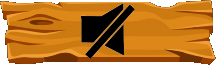
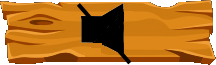
redesign enter's ans pause's menu

diff --git a/src/MyFrame.java b/src/MyFrame.java
@@ -37,6 +37,7 @@ public class MyFrame extends JFrame implements KeyEventDispatcher, MouseListener
 
     Buttom pauseButtom;
     Buttom startButtom;
+    Buttom settingButtom;
     Buttom exitButtom;
 
     public MyFrame() throws IOException {
@@ -44,7 +45,7 @@ public class MyFrame extends JFrame implements KeyEventDispatcher, MouseListener
         this.imageBloodBackground = ImageIO.read(new File("data\\blood_background.png"));
         imageBackGround = ImageIO.read(new File("data\\Sky.jpg"));
         imageBackGround1 = ImageIO.read(new File("data\\Sand1.jpg"));
-        imageEnterBackGround = ImageIO.read(new File("data\\ImageBackGround2.jpg"));
+        imageEnterBackGround = ImageIO.read(new File("data\\EnterBackGround1.jpg"));
         imageCheckMark = ImageIO.read(new File("data\\CheckMark.png"));
 
         addMouseListener(this);
@@ -85,10 +86,10 @@ public class MyFrame extends JFrame implements KeyEventDispatcher, MouseListener
         Constants.CNT_DIED_BOTS = new MyString(0);
         Constants.CNT_WAY = new MyString(0);
 
-        buttoms.add(new Buttom(getWidth() / 28.0, getWidth() / 2, getHeight() / 2, "data\\ButtomStart.png"));
-        buttoms.add(new Buttom(getWidth() / 28.0, getWidth() / 2, getHeight() / 2 + getWidth() / 28.0 * 5 / 4, "data\\ButtomRecords.png"));
-        buttoms.add(new Buttom(getWidth() / 28.0, getWidth() / 2, getHeight() / 2 + getWidth() / 28.0 * 2.0 * 5 / 4, "data\\ButtomSetting.png"));
-        buttoms.add(new Buttom(getWidth() / 28.0, getWidth() / 2, getHeight() / 2 + getWidth() / 28.0 * 3.0 * 5 / 4, "data\\ButtomInfo.png"));
+        buttoms.add(new Buttom(getWidth() / 28.0, getWidth() / 2 + Constants.R / 2, getHeight() / 2, "data\\ButtomStart.png"));
+        buttoms.add(new Buttom(getWidth() / 28.0, getWidth() / 2 + Constants.R / 2, getHeight() / 2 + getWidth() / 28.0 * 5 / 4, "data\\ButtomRecords.png"));
+        buttoms.add(new Buttom(getWidth() / 28.0, getWidth() / 2 + Constants.R / 2, getHeight() / 2 + getWidth() / 28.0 * 2.0 * 5 / 4, "data\\ButtomSetting.png"));
+        buttoms.add(new Buttom(getWidth() / 28.0, getWidth() / 2 + Constants.R / 2, getHeight() / 2 + getWidth() / 28.0 * 3.0 * 5 / 4, "data\\ButtomInfo.png"));
 
         {
             FileReader reader = new FileReader("files\\Constants.txt");
@@ -100,13 +101,14 @@ public class MyFrame extends JFrame implements KeyEventDispatcher, MouseListener
         Constants.TIME_LAST_BUM = 0;
 
         pauseButtom = new Buttom(getWidth() / 40, getWidth() / 2 + (int) (2.25 * (double) Constants.R), Constants.SDVIG / 2, "data\\pause.png");
-        startButtom = new Buttom(getWidth() / 4, getWidth() / 2, getHeight() / 4, "data\\start.png");
-        exitButtom = new Buttom(getWidth() / 16, getWidth() / 2 + getWidth()/32, 6*getHeight() / 8, "data\\ButtumExit.png", false);
+        startButtom = new Buttom(getWidth() / 28.0, getWidth() / 2 + Constants.R / 2, getHeight() / 2, "data\\ButtomContinue.png");
+        settingButtom = new Buttom(getWidth() / 28.0, getWidth() / 2 + Constants.R / 2, getHeight() / 2 + getWidth() / 28.0 * 5 / 4, "data\\ButtomSetting.png");
+        exitButtom = new Buttom(getWidth() / 16, getWidth() / 2 + getWidth() / 32, 6 * getHeight() / 8, "data\\ButtumExit.png", false);
     }
 
     @Override
     public void paint(Graphics g) {
-        System.out.println(buttoms.size());
+//        System.out.println(buttoms.size());
         long nowTime = System.currentTimeMillis();
         //System.out.println(nowTime + " " + (nowTime - timePriviosPrint) + " " + Constants.V_NORMAL);
         BufferStrategy bufferStrategy = getBufferStrategy();
@@ -287,7 +289,15 @@ public class MyFrame extends JFrame implements KeyEventDispatcher, MouseListener
                     }
                     pauseButtom.paint(g, getMousePosition());
                 } else {
-                    startButtom.paint(g, getMousePosition());
+                    g.drawImage(imageEnterBackGround, 0, 0, getWidth(), getHeight(), null);
+                    if (!Constants.IN_SETTING) {
+                        startButtom.paint(g, getMousePosition());
+                        settingButtom.paint(g, getMousePosition());
+                    } else {
+                        for (Buttom buttom : buttoms) {
+                            buttom.paint(g, getMousePosition());
+                        }
+                    }
                 }
             }
             timePriviosPrint = nowTime;
@@ -408,18 +418,122 @@ public class MyFrame extends JFrame implements KeyEventDispatcher, MouseListener
         double y = e.getY();
         if (Constants.START_GAME) {
             if (Constants.USER_DIED) {
-                if (ModifiersEx == 1024 && exitButtom.isIt && exitButtom.isPush(getMousePosition())){
+                if (ModifiersEx == 1024 && exitButtom.isIt && exitButtom.isPush(getMousePosition())) {
                     Constants.RESTART_GAME = true;
                 }
             } else {
                 if (Constants.PAUSE_MENU) {
-                    if (ModifiersEx == 1024 && startButtom.isPush(getMousePosition())) {
-                        Constants.PAUSE_MENU = false;
-                        long deltaTime = System.currentTimeMillis() - Constants.TIME_STOP;
-                        Constants.TIME_START_PROGRAM += deltaTime;
-                        Constants.TIME_LAST_BUM += deltaTime;
-                        for (BaseBot diedBot : labirint.diedBots) {
-                            diedBot.timeDied += deltaTime;
+                    if (!Constants.IN_SETTING) {
+                        if (ModifiersEx == 1024 && startButtom.isPush(getMousePosition())) {
+                            Constants.PAUSE_MENU = false;
+                            long deltaTime = System.currentTimeMillis() - Constants.TIME_STOP;
+                            Constants.TIME_START_PROGRAM += deltaTime;
+                            Constants.TIME_LAST_BUM += deltaTime;
+                            for (BaseBot diedBot : labirint.diedBots) {
+                                diedBot.timeDied += deltaTime;
+                            }
+                        }
+                        if (ModifiersEx == 1024 && settingButtom.isPush(getMousePosition())) {
+                            Constants.IN_SETTING = true;
+                            buttoms = new ArrayList<>();
+                            if (Constants.MUST_PLAY_MUSIC) {
+                                try {
+                                    buttoms.add(new Buttom(getWidth() / 28.0, getWidth() / 2 + Constants.R / 2, getHeight() / 2, "data\\ButtomMusicOn.png"));
+                                } catch (IOException ex) {
+                                    throw new RuntimeException(ex);
+                                }
+                            } else {
+                                try {
+                                    buttoms.add(new Buttom(getWidth() / 28.0, getWidth() / 2 + Constants.R / 2, getHeight() / 2, "data\\ButtomMusicOff.png"));
+                                } catch (IOException ex) {
+                                    throw new RuntimeException(ex);
+                                }
+                            }
+                            if (Constants.MUST_PLAY_SOUND) {
+                                try {
+                                    buttoms.add(new Buttom(getWidth() / 28.0, getWidth() / 2 + Constants.R / 2, getHeight() / 2 + getWidth() / 28.0 * 5 / 4, "data\\ButtomSoundOn.png"));
+                                } catch (IOException ex) {
+                                    throw new RuntimeException(ex);
+                                }
+                            } else {
+                                try {
+                                    buttoms.add(new Buttom(getWidth() / 28.0, getWidth() / 2 + Constants.R / 2, getHeight() / 2 + getWidth() / 28.0 * 5 / 4, "data\\ButtomSoundOff.png"));
+                                } catch (IOException ex) {
+                                    throw new RuntimeException(ex);
+                                }
+                            }
+
+                            try {
+                                buttoms.add(new Buttom(getWidth() / 28.0, getWidth() / 2 + Constants.R / 2, getHeight() / 2 + getWidth() / 28.0 * 2.0 * 5 / 4, "data\\ButtomBack.png"));
+                            } catch (IOException ex) {
+                                throw new RuntimeException(ex);
+                            }
+                        }
+                    } else {
+                        if (ModifiersEx == 1024 && buttoms.get(2).isPush(getMousePosition())) {
+                            Constants.IN_SETTING = false;
+                            buttoms = new ArrayList<>();
+                            try {
+                                buttoms.add(new Buttom(getWidth() / 28.0, getWidth() / 2 + Constants.R / 2, getHeight() / 2, "data\\ButtomStart.png"));
+                            } catch (IOException ex) {
+                                throw new RuntimeException(ex);
+                            }
+                            try {
+                                buttoms.add(new Buttom(getWidth() / 28.0, getWidth() / 2 + Constants.R / 2, getHeight() / 2 + getWidth() / 28.0 * 5 / 4, "data\\ButtomRecords.png"));
+                            } catch (IOException ex) {
+                                throw new RuntimeException(ex);
+                            }
+                            try {
+                                buttoms.add(new Buttom(getWidth() / 28.0, getWidth() / 2 + Constants.R / 2, getHeight() / 2 + getWidth() / 28.0 * 2.0 * 5 / 4, "data\\ButtomSetting.png"));
+                            } catch (IOException ex) {
+                                throw new RuntimeException(ex);
+                            }
+                            try {
+                                buttoms.add(new Buttom(getWidth() / 28.0, getWidth() / 2 + Constants.R / 2, getHeight() / 2 + getWidth() / 28.0 * 3.0 * 5 / 4, "data\\ButtomInfo.png"));
+                            } catch (IOException ex) {
+                                throw new RuntimeException(ex);
+                            }
+
+                        } else if (ModifiersEx == 1024 && buttoms.get(0).isPush(getMousePosition())) {
+                            Constants.MUST_PLAY_MUSIC = !Constants.MUST_PLAY_MUSIC;
+                            try {
+                                Constants.writeConstants();
+                            } catch (IOException ex) {
+                                throw new RuntimeException(ex);
+                            }
+                            if (Constants.MUST_PLAY_MUSIC) {
+                                try {
+                                    buttoms.get(0).setImage("data\\ButtomMusicOn.png");
+                                } catch (IOException ex) {
+                                    throw new RuntimeException(ex);
+                                }
+                            } else {
+                                try {
+                                    buttoms.get(0).setImage("data\\ButtomMusicOff.png");
+                                } catch (IOException ex) {
+                                    throw new RuntimeException(ex);
+                                }
+                            }
+                        } else if (ModifiersEx == 1024 && buttoms.get(1).isPush(getMousePosition())) {
+                            Constants.MUST_PLAY_SOUND = !Constants.MUST_PLAY_SOUND;
+                            try {
+                                Constants.writeConstants();
+                            } catch (IOException ex) {
+                                throw new RuntimeException(ex);
+                            }
+                            if (Constants.MUST_PLAY_SOUND) {
+                                try {
+                                    buttoms.get(1).setImage("data\\ButtomSoundOn.png");
+                                } catch (IOException ex) {
+                                    throw new RuntimeException(ex);
+                                }
+                            } else {
+                                try {
+                                    buttoms.get(1).setImage("data\\ButtomSoundOff.png");
+                                } catch (IOException ex) {
+                                    throw new RuntimeException(ex);
+                                }
+                            }
                         }
                     }
                 } else {
@@ -528,33 +642,33 @@ public class MyFrame extends JFrame implements KeyEventDispatcher, MouseListener
                     buttoms = new ArrayList<>();
                     if (Constants.MUST_PLAY_MUSIC) {
                         try {
-                            buttoms.add(new Buttom(getWidth() / 28.0, getWidth() / 2, getHeight() / 2, "data\\ButtomMusicOn.png"));
+                            buttoms.add(new Buttom(getWidth() / 28.0, getWidth() / 2 + Constants.R / 2, getHeight() / 2, "data\\ButtomMusicOn.png"));
                         } catch (IOException ex) {
                             throw new RuntimeException(ex);
                         }
                     } else {
                         try {
-                            buttoms.add(new Buttom(getWidth() / 28.0, getWidth() / 2, getHeight() / 2, "data\\ButtomMusicOff.png"));
+                            buttoms.add(new Buttom(getWidth() / 28.0, getWidth() / 2 + Constants.R / 2, getHeight() / 2, "data\\ButtomMusicOff.png"));
                         } catch (IOException ex) {
                             throw new RuntimeException(ex);
                         }
                     }
                     if (Constants.MUST_PLAY_SOUND) {
                         try {
-                            buttoms.add(new Buttom(getWidth() / 28.0, getWidth() / 2, getHeight() / 2 + getWidth() / 28.0 * 5 / 4, "data\\ButtomSoundOn.png"));
+                            buttoms.add(new Buttom(getWidth() / 28.0, getWidth() / 2 + Constants.R / 2, getHeight() / 2 + getWidth() / 28.0 * 5 / 4, "data\\ButtomSoundOn.png"));
                         } catch (IOException ex) {
                             throw new RuntimeException(ex);
                         }
                     } else {
                         try {
-                            buttoms.add(new Buttom(getWidth() / 28.0, getWidth() / 2, getHeight() / 2 + getWidth() / 28.0 * 5 / 4, "data\\ButtomSoundOff.png"));
+                            buttoms.add(new Buttom(getWidth() / 28.0, getWidth() / 2 + Constants.R / 2, getHeight() / 2 + getWidth() / 28.0 * 5 / 4, "data\\ButtomSoundOff.png"));
                         } catch (IOException ex) {
                             throw new RuntimeException(ex);
                         }
                     }
 
                     try {
-                        buttoms.add(new Buttom(getWidth() / 28.0, getWidth() / 2, getHeight() / 2 + getWidth() / 28.0 * 2.0 * 5 / 4, "data\\ButtomBack.png"));
+                        buttoms.add(new Buttom(getWidth() / 28.0, getWidth() / 2 + Constants.R / 2, getHeight() / 2 + getWidth() / 28.0 * 2.0 * 5 / 4, "data\\ButtomBack.png"));
                     } catch (IOException ex) {
                         throw new RuntimeException(ex);
                     }
@@ -563,22 +677,22 @@ public class MyFrame extends JFrame implements KeyEventDispatcher, MouseListener
                     Constants.IN_RECORDS = true;
                     buttoms = new ArrayList<>();
                     try {
-                        buttoms.add(new Buttom(getWidth() / 28.0, getWidth() / 2, getHeight() / 2, "data\\ButtomRecord`sTypeWay.png"));
+                        buttoms.add(new Buttom(getWidth() / 28.0, getWidth() / 2 + Constants.R / 2, getHeight() / 2, "data\\ButtomRecord`sTypeWay.png"));
                     } catch (IOException ex) {
                         throw new RuntimeException(ex);
                     }
                     try {
-                        buttoms.add(new Buttom(getWidth() / 28.0, getWidth() / 2, getHeight() / 2 + getWidth() / 28.0 * 1.0 * 5 / 4, "data\\ButtomRecord`sTypeBots.png"));
+                        buttoms.add(new Buttom(getWidth() / 28.0, getWidth() / 2 + Constants.R / 2, getHeight() / 2 + getWidth() / 28.0 * 1.0 * 5 / 4, "data\\ButtomRecord`sTypeBots.png"));
                     } catch (IOException ex) {
                         throw new RuntimeException(ex);
                     }
                     try {
-                        buttoms.add(new Buttom(getWidth() / 28.0, getWidth() / 2, getHeight() / 2 + getWidth() / 28.0 * 2.0 * 5 / 4, "data\\ButtomRecord`sTypeTime.png"));
+                        buttoms.add(new Buttom(getWidth() / 28.0, getWidth() / 2 + Constants.R / 2, getHeight() / 2 + getWidth() / 28.0 * 2.0 * 5 / 4, "data\\ButtomRecord`sTypeTime.png"));
                     } catch (IOException ex) {
                         throw new RuntimeException(ex);
                     }
                     try {
-                        buttoms.add(new Buttom(getWidth() / 28.0, getWidth() / 2, getHeight() / 2 + getWidth() / 28.0 * 3.0 * 5 / 4, "data\\ButtomBack.png"));
+                        buttoms.add(new Buttom(getWidth() / 28.0, getWidth() / 2 + Constants.R / 2, getHeight() / 2 + getWidth() / 28.0 * 3.0 * 5 / 4, "data\\ButtomBack.png"));
                     } catch (IOException ex) {
                         throw new RuntimeException(ex);
                     }
@@ -589,22 +703,22 @@ public class MyFrame extends JFrame implements KeyEventDispatcher, MouseListener
                     Constants.IN_SETTING = false;
                     buttoms = new ArrayList<>();
                     try {
-                        buttoms.add(new Buttom(getWidth() / 28.0, getWidth() / 2, getHeight() / 2, "data\\ButtomStart.png"));
+                        buttoms.add(new Buttom(getWidth() / 28.0, getWidth() / 2 + Constants.R / 2, getHeight() / 2, "data\\ButtomStart.png"));
                     } catch (IOException ex) {
                         throw new RuntimeException(ex);
                     }
                     try {
-                        buttoms.add(new Buttom(getWidth() / 28.0, getWidth() / 2, getHeight() / 2 + getWidth() / 28.0 * 5 / 4, "data\\ButtomRecords.png"));
+                        buttoms.add(new Buttom(getWidth() / 28.0, getWidth() / 2 + Constants.R / 2, getHeight() / 2 + getWidth() / 28.0 * 5 / 4, "data\\ButtomRecords.png"));
                     } catch (IOException ex) {
                         throw new RuntimeException(ex);
                     }
                     try {
-                        buttoms.add(new Buttom(getWidth() / 28.0, getWidth() / 2, getHeight() / 2 + getWidth() / 28.0 * 2.0 * 5 / 4, "data\\ButtomSetting.png"));
+                        buttoms.add(new Buttom(getWidth() / 28.0, getWidth() / 2 + Constants.R / 2, getHeight() / 2 + getWidth() / 28.0 * 2.0 * 5 / 4, "data\\ButtomSetting.png"));
                     } catch (IOException ex) {
                         throw new RuntimeException(ex);
                     }
                     try {
-                        buttoms.add(new Buttom(getWidth() / 28.0, getWidth() / 2, getHeight() / 2 + getWidth() / 28.0 * 3.0 * 5 / 4, "data\\ButtomInfo.png"));
+                        buttoms.add(new Buttom(getWidth() / 28.0, getWidth() / 2 + Constants.R / 2, getHeight() / 2 + getWidth() / 28.0 * 3.0 * 5 / 4, "data\\ButtomInfo.png"));
                     } catch (IOException ex) {
                         throw new RuntimeException(ex);
                     }
@@ -656,22 +770,22 @@ public class MyFrame extends JFrame implements KeyEventDispatcher, MouseListener
                         Constants.IN_RECORDS = false;
                         buttoms = new ArrayList<>();
                         try {
-                            buttoms.add(new Buttom(getWidth() / 28.0, getWidth() / 2, getHeight() / 2, "data\\ButtomStart.png"));
+                            buttoms.add(new Buttom(getWidth() / 28.0, getWidth() / 2 + Constants.R / 2, getHeight() / 2, "data\\ButtomStart.png"));
                         } catch (IOException ex) {
                             throw new RuntimeException(ex);
                         }
                         try {
-                            buttoms.add(new Buttom(getWidth() / 28.0, getWidth() / 2, getHeight() / 2 + getWidth() / 28.0 * 5 / 4, "data\\ButtomRecords.png"));
+                            buttoms.add(new Buttom(getWidth() / 28.0, getWidth() / 2 + Constants.R / 2, getHeight() / 2 + getWidth() / 28.0 * 5 / 4, "data\\ButtomRecords.png"));
                         } catch (IOException ex) {
                             throw new RuntimeException(ex);
                         }
                         try {
-                            buttoms.add(new Buttom(getWidth() / 28.0, getWidth() / 2, getHeight() / 2 + getWidth() / 28.0 * 2.0 * 5 / 4, "data\\ButtomSetting.png"));
+                            buttoms.add(new Buttom(getWidth() / 28.0, getWidth() / 2 + Constants.R / 2, getHeight() / 2 + getWidth() / 28.0 * 2.0 * 5 / 4, "data\\ButtomSetting.png"));
                         } catch (IOException ex) {
                             throw new RuntimeException(ex);
                         }
                         try {
-                            buttoms.add(new Buttom(getWidth() / 28.0, getWidth() / 2, getHeight() / 2 + getWidth() / 28.0 * 3.0 * 5 / 4, "data\\ButtomInfo.png"));
+                            buttoms.add(new Buttom(getWidth() / 28.0, getWidth() / 2 + Constants.R / 2, getHeight() / 2 + getWidth() / 28.0 * 3.0 * 5 / 4, "data\\ButtomInfo.png"));
                         } catch (IOException ex) {
                             throw new RuntimeException(ex);
                         }
@@ -680,7 +794,7 @@ public class MyFrame extends JFrame implements KeyEventDispatcher, MouseListener
                         Constants.TYPE_OF_RECORDS = 1;
                         try {
                             scoreboard = new Scoreboard(getWidth() / 28.0, getWidth(), getHeight(), "files\\ways_records.txt");
-                            buttoms.add(new Buttom(getWidth() / 28.0, getWidth() / 2, getHeight() / 2 + getWidth() / 28.0 * 4.0 * 5 / 4, "data\\ButtomBack.png"));
+                            buttoms.add(new Buttom(getWidth() / 28.0, getWidth() / 2 + Constants.R / 2, getHeight() / 2 + getWidth() / 28.0 * 4.0 * 5 / 4, "data\\ButtomBack.png"));
                         } catch (IOException ex) {
                             throw new RuntimeException(ex);
                         }
@@ -689,7 +803,7 @@ public class MyFrame extends JFrame implements KeyEventDispatcher, MouseListener
                         Constants.TYPE_OF_RECORDS = 2;
                         try {
                             scoreboard = new Scoreboard(getWidth() / 28.0, getWidth(), getHeight(), "files\\bots_records.txt");
-                            buttoms.add(new Buttom(getWidth() / 28.0, getWidth() / 2, getHeight() / 2 + getWidth() / 28.0 * 4.0 * 5 / 4, "data\\ButtomBack.png"));
+                            buttoms.add(new Buttom(getWidth() / 28.0, getWidth() / 2 + Constants.R / 2, getHeight() / 2 + getWidth() / 28.0 * 4.0 * 5 / 4, "data\\ButtomBack.png"));
                         } catch (IOException ex) {
                             throw new RuntimeException(ex);
                         }
@@ -698,7 +812,7 @@ public class MyFrame extends JFrame implements KeyEventDispatcher, MouseListener
                         Constants.TYPE_OF_RECORDS = 3;
                         try {
                             scoreboard = new Scoreboard(getWidth() / 28.0, getWidth(), getHeight(), "files\\times_records.txt");
-                            buttoms.add(new Buttom(getWidth() / 28.0, getWidth() / 2, getHeight() / 2 + getWidth() / 28.0 * 4.0 * 5 / 4, "data\\ButtomBack.png"));
+                            buttoms.add(new Buttom(getWidth() / 28.0, getWidth() / 2 + Constants.R / 2, getHeight() / 2 + getWidth() / 28.0 * 4.0 * 5 / 4, "data\\ButtomBack.png"));
                         } catch (IOException ex) {
                             throw new RuntimeException(ex);
                         }
